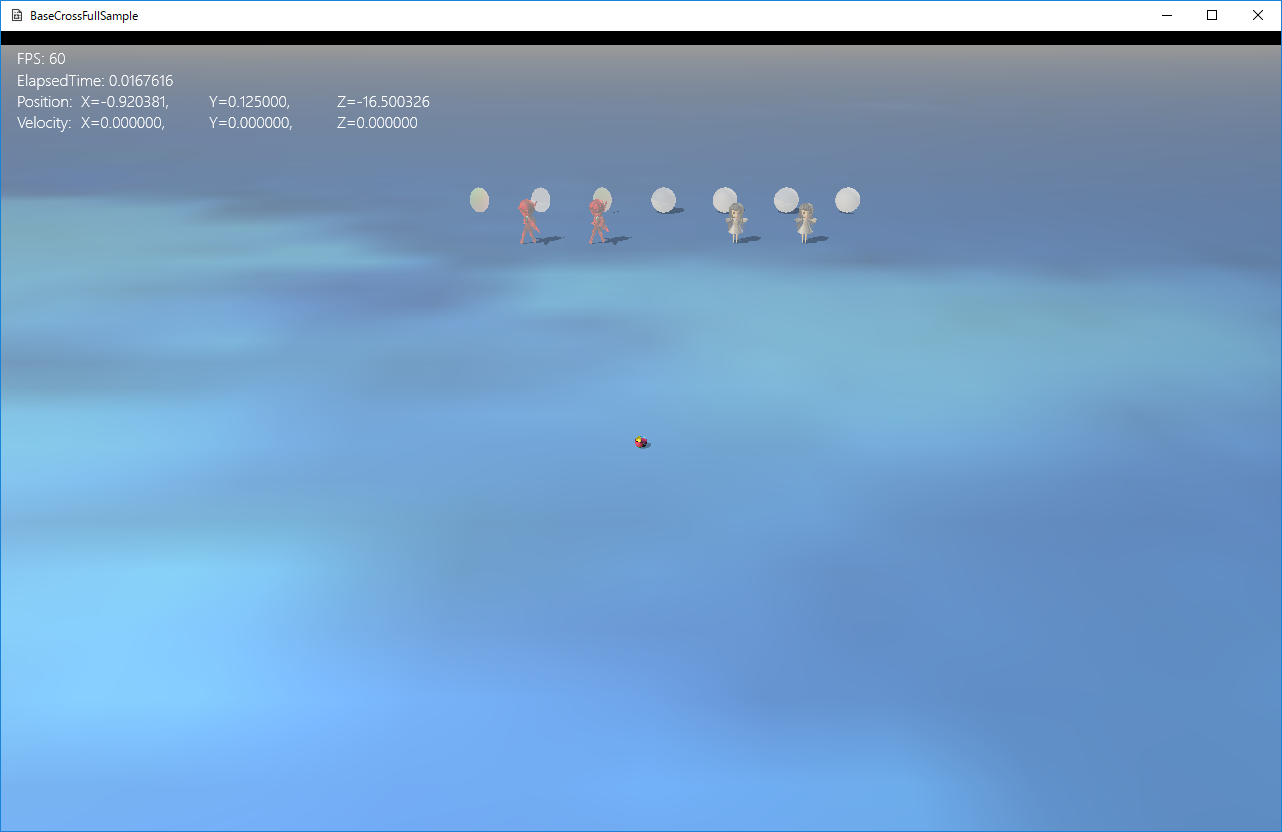
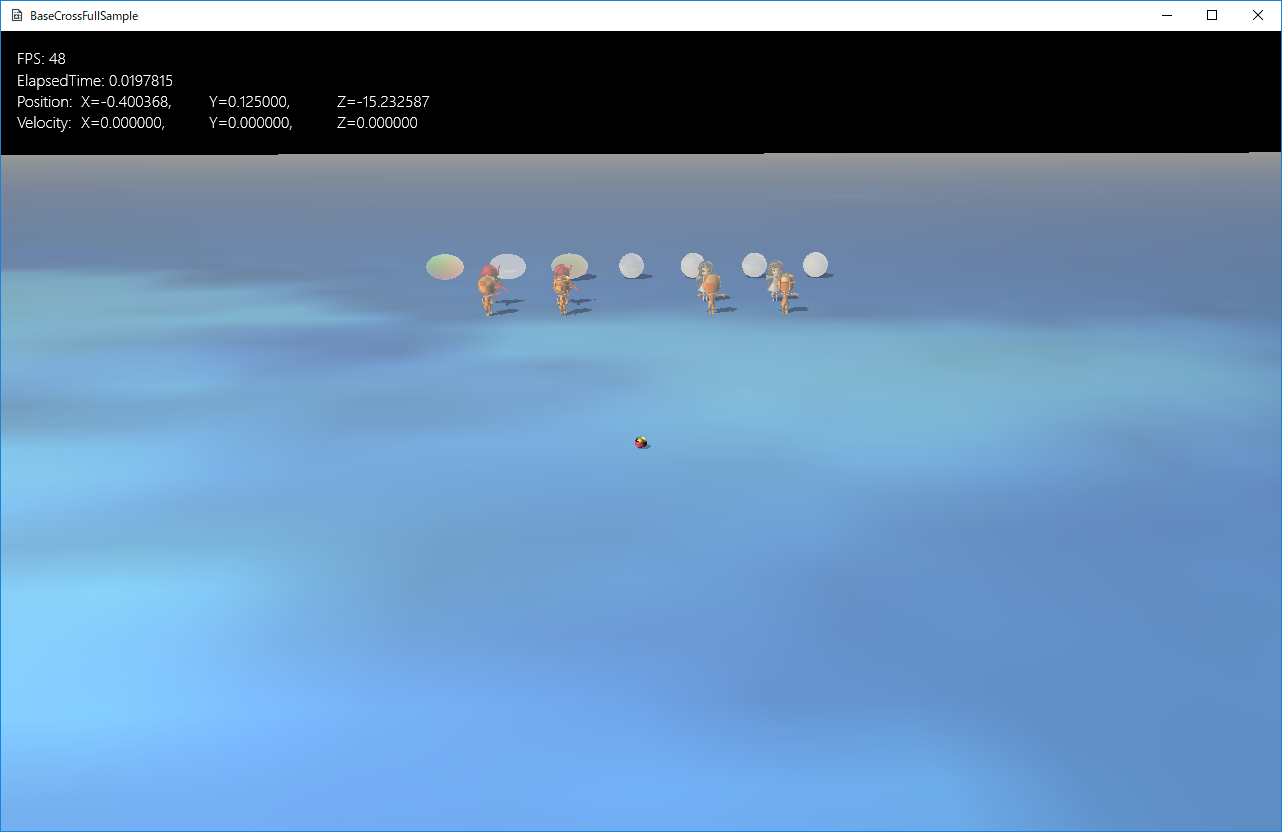
前コミット修正にともなうドキュメント修正。

Changed region(s): [[0.0, 0.0312, 1.0, 0.4062], [0.0, 0.4375, 0.0936, 0.5312], [0.156, 0.375, 0.2184, 0.4375]]

diff --git a/Documents/04_03.html b/Documents/04_03.html
@@ -267,10 +267,18 @@ void Scene::CreateResourses() {
     auto StaticModelMesh = MeshResource::CreateStaticModelMesh(DataDir, L"Character_01.bmf");
     App::GetApp()->RegisterResource(L"MODEL_MESH", StaticModelMesh);
 
+    //スタティックモデル(マルチメッシュ)の通常リソース
+    auto StaticMultiModelMesh = MultiMeshResource::CreateStaticModelMultiMesh(DataDir, L"ObjectOnly.bmf");
+    App::GetApp()->RegisterResource(L"ObjectOnly_MESH", StaticMultiModelMesh);
+    //ボーンモデル(マルチメッシュ)の通常リソース
+    auto MultiModelMesh = MultiMeshResource::CreateBoneModelMultiMesh(DataDir, L"Object_WalkAnimation.bmf");
+    App::GetApp()->RegisterResource(L"Object_WalkAnimation_MESH", MultiModelMesh);
 }
 </pre>
 </div>
-　このようにして<b>リソース登録</b>した<b>L"Chara_R_MESH"</b>を使用します。以下は<b>BoneChara::OnCreate()関数</b>です。
+　このようにして<b>リソース登録</b>した<b>L"Chara_R_MESH"</b>を使用します。<br />
+　また、ここで<b>マルチメッシュ</b>として作成されるモデルの実装も行ってます。<b>L"ObjectOnly_MESH"</b>と<b>L"Object_WalkAnimation_MESH"</b>です。この二つのモデルは<b>1つのFBXファイルに複数のメッシュがある場合</b>のモデルをデータ変換したものです。BaseCrossでは<b>マルチメッシュ</b>と称しています。<br />
+　以下は<b>BoneChara::OnCreate()関数</b>です。<br/>
 <div class="box1">
 <pre>
 //初期化
@@ -324,6 +332,59 @@ void BoneChara::OnUpdate() {
 }
 </pre>
 </div>
+　以下は<b>マルチメッシュ</b>である<b>BoneMultiMeshChara</b>の<b>BoneMultiMeshChara::OnCreate()</b>です。
+<div class="box1">
+<pre>
+//初期化
+void BoneMultiMeshChara::OnCreate() {
+    //初期位置などの設定
+    auto Ptr = AddComponent&lt;Transform>();
+    Ptr->SetScale(0.5f, 0.5f, 0.5f);
+    Ptr->SetRotation(0.0f, 0.0f, 0.0f);
+    Ptr->SetPosition(m_StartPos);
+
+    Mat4x4 SpanMat; // モデルとトランスフォームの間の差分行列
+    SpanMat.affineTransformation(
+        Vec3(1.0f, 1.0f, 1.0f),
+        Vec3(0.0f, 0.0f, 0.0f),
+        Vec3(0.0f, 0.0f, 0.0f),
+        Vec3(0.0f, 0.0f, 0.0f)
+    );
+
+    //影をつける（シャドウマップを描画する）
+    auto ShadowPtr = AddComponent&lt;Shadowmap>();
+
+    //影の形（メッシュ）を設定
+    <span class="red">ShadowPtr->SetMultiMeshResource(L"Object_WalkAnimation_MESH");</span>
+    ShadowPtr->SetMeshToTransformMatrix(SpanMat);
+
+    //描画コンポーネントの設定
+    auto PtrDraw = AddComponent&lt;PNTBoneModelDraw>();
+    //描画するメッシュを設定
+    <span class="red">PtrDraw->SetMultiMeshResource(L"Object_WalkAnimation_MESH");</span>
+    PtrDraw->SetSamplerState(SamplerState::LinearWrap);
+    PtrDraw->SetMeshToTransformMatrix(SpanMat);
+
+    PtrDraw->AddAnimation(L"Default", 0, 30, true, 10.0f);
+    PtrDraw->ChangeCurrentAnimation(L"Default");
+
+}
+</pre>
+</div>
+　赤くなっているところに注意してください。<b>SetMultiMeshResource()関数</b>で、<b>マルチメッシュ</b>を各コンポーネントに設定しています。<br />
+　もう一つ注意してほしいのは、<b>単体のメッシュ</b>と<b>マルチメッシュ</b>は一つのコンポーネントに同居できないということです。<br />
+　以下は、<b>OnUpdate()</b>です。
+<div class="box1">
+<pre>
+//更新
+void BoneMultiMeshChara::OnUpdate() {
+    auto PtrDraw = GetComponent&lt;PNTBoneModelDraw>();
+    float ElapsedTime = App::GetApp()->GetElapsedTime();
+    PtrDraw->UpdateAnimation(ElapsedTime);
+}
+</pre>
+</div>
+　こちらは単体のメッシュと変わりありません。<br />
 <br />
 <h4>スタティックモデル</h4>
 　以下は<b>スタティックモデル</b>の作成です。<b>StaticChara::OnCreate()関数</b>に記述します。
@@ -359,6 +420,38 @@ void StaticChara::OnCreate() {
 }
 </pre>
 </div>
+　こちらも<b>ボーンモデル</b>同様<b>マルチメッシュ</b>のオブジェクトがあります。<b>StaticMultiMeshChara</b>です。以下が<b>StaticMultiMeshChara::OnCreate()</b>です。
+<div class="box1">
+<pre>
+//初期化
+void StaticMultiMeshChara::OnCreate() {
+    //初期位置などの設定
+    auto Ptr = AddComponent&lt;Transform>();
+    Ptr->SetScale(0.5f, 0.5f, 0.5f);
+    Ptr->SetRotation(0.0f, 0.0f, 0.0f);
+    Ptr->SetPosition(m_StartPos);
+
+    Mat4x4 SpanMat; // モデルとトランスフォームの間の差分行列
+    SpanMat.affineTransformation(
+        Vec3(1.0f, 1.0f, 1.0f),
+        Vec3(0.0f, 0.0f, 0.0f),
+        Vec3(0.0f, 0.0f, 0.0f),
+        Vec3(0.0f, 0.0f, 0.0f)
+    );
+
+    //影をつける（シャドウマップを描画する）
+    auto ShadowPtr = AddComponent&lt;Shadowmap>();
+    //影の形（メッシュ）を設定
+    <span class="red">ShadowPtr->SetMultiMeshResource(L"ObjectOnly_MESH");</span>
+    ShadowPtr->SetMeshToTransformMatrix(SpanMat);
+
+    auto PtrDraw = AddComponent&lt;PNTStaticModelDraw>();
+    <span class="red">PtrDraw->SetMultiMeshResource(L"ObjectOnly_MESH");</span>
+    PtrDraw->SetMeshToTransformMatrix(SpanMat);
+}
+</pre>
+</div>
+　こちらも、赤くなっているところは<b>マルチメッシュ</b>を登録しているところです。<br/>
 <br />
 <h4>GameStageへの配置</h4>
 　以上が各オブジェクトの初期化や更新です。最後に<b>GameStage::OnCreate()</b>で各オブジェクトを<b>AddGameObject</b>します。

diff --git a/Documents/04_04.html b/Documents/04_04.html
@@ -46,7 +46,7 @@ void PtSphere::OnCreate() {
 <p>図0404b</p>
 <br/>
 <h4>モデルの描画</h4>
-　モデルをリアルな描画にしたのが手前の4体です。左２つはアニメーションが入ってます。<br />
+　モデルをリアルな描画にしたのが手前の8体です。左４つはアニメーションが入ってます。<br />
 　以下はボーンモデルの描画ですが<b>タンジェントがついているものとついてないもの</b>の違いを確認してください。
 <p>&nbsp;</p>
 <img src="img/0404c.png" width="80%"/>
@@ -116,34 +116,58 @@ void BoneChara::OnCreate() {
 <div class="box1">
 <pre>
 void Scene::CreateResourses() {
-    //中略
+//中略
 
     //ボーンモデルの通常リソース
     auto ModelMesh = MeshResource::CreateBoneModelMesh(DataDir, L"Chara_R.bmf");
     App::GetApp()->RegisterResource(L"Chara_R_MESH", ModelMesh);
+
     //ボーンモデルのタンジェント付きリソース
-    <span class="red">ModelMesh = MeshResource::CreateBoneModelMeshWithTangent(DataDir, L"Chara_R.bmf");</span>
+    ModelMesh = MeshResource::CreateBoneModelMeshWithTangent(DataDir, L"Chara_R.bmf");
     App::GetApp()->RegisterResource(L"Chara_R_MESH_WITH_TAN", ModelMesh);
     //法線マップ
     strTexture = DataDir + L"Chara_R_narmal.png";
     App::GetApp()->RegisterTexture(L"Chara_R_NORMAL_TX", strTexture);
 
+    //ボーンモデル(マルチメッシュ)の通常リソース
+    auto MultiModelMesh 
+    = MultiMeshResource::CreateBoneModelMultiMesh(DataDir, L"Object_WalkAnimation.bmf");
+    App::GetApp()->RegisterResource(L"Object_WalkAnimation_MESH", MultiModelMesh);
+
+    //ボーンモデル(マルチメッシュ)のタンジェント付きリソース
+    MultiModelMesh 
+    = MultiMeshResource::CreateBoneModelMultiMeshWithTangent(DataDir, L"Object_WalkAnimation.bmf");
+    App::GetApp()->RegisterResource(L"Object_WalkAnimation_MESH_WITH_TAN", MultiModelMesh);
+
+    //法線マップ
+    strTexture = DataDir + L"Tx_Checker_Normal.png";
+    App::GetApp()->RegisterTexture(L"OBJECT_NORMAL_TX", strTexture);
+
     //スタティックモデルの通常リソース
     auto StaticModelMesh = MeshResource::CreateStaticModelMesh(DataDir, L"Character_01.bmf");
     App::GetApp()->RegisterResource(L"MODEL_MESH", StaticModelMesh);
     //スタティックモデルのタンジェント付きリソース
-    <span class="red">StaticModelMesh 
-        = MeshResource::CreateStaticModelMeshWithTangent(DataDir, L"Character_01.bmf");</span>
+    StaticModelMesh = MeshResource::CreateStaticModelMeshWithTangent(DataDir, L"Character_01.bmf");
     App::GetApp()->RegisterResource(L"MODEL_MESH_WITH_TAN", StaticModelMesh);
     //法線マップ
     strTexture = DataDir + L"Character_2_normal.png";
     App::GetApp()->RegisterTexture(L"MODEL_NORMAL_TX", strTexture);
 
+    //スタティックモデル(マルチメッシュ)の通常リソース
+    auto StaticMultiModelMesh 
+    = MultiMeshResource::CreateStaticModelMultiMesh(DataDir, L"ObjectOnly.bmf");
+    App::GetApp()->RegisterResource(L"ObjectOnly_MESH", StaticMultiModelMesh);
+
+    //スタティックモデル(マルチメッシュ)のタンジェント付きリソース
+    StaticMultiModelMesh 
+    = MultiMeshResource::CreateStaticModelMultiMeshWithTangent(DataDir, L"ObjectOnly.bmf");
+    App::GetApp()->RegisterResource(L"ObjectOnly_MESH_WITH_TAN", StaticMultiModelMesh);
 
 }
 </pre>
 </div>
-　このように<b>リアルな描画</b>を実装するためには、基本的に<b>描画コンポーネント</b>の変更や、<b>タンジェント付きのリソースを作成</b>すればいいわけですが、ゲームによって<b>どこまでリアルな描画が必要かどうか</b>が違うと思いますので、前項のような描画が良いかどうかはしっかり検討して実装するといいと思います。
+　このように<b>リアルな描画</b>を実装するためには、基本的に<b>描画コンポーネント</b>の変更や、<b>タンジェント付きのリソースを作成</b>すればいいわけですが、ゲームによって<b>どこまでリアルな描画が必要かどうか</b>が違うと思いますので、前項のような描画が良いかどうかはしっかり検討して実装するといいと思います。<br/>
+　また、このサンプルにも前項に使用した<b>マルチメッシュ</b>のモデルも<b>タンジェント付き</b>と<b>タンジェント無し</b>で実装されています。設置方法は前項と大きく変わりませんので、確認してみましょう。
 </div>
 <!-- /コンテンツ　-->
 <hr>
